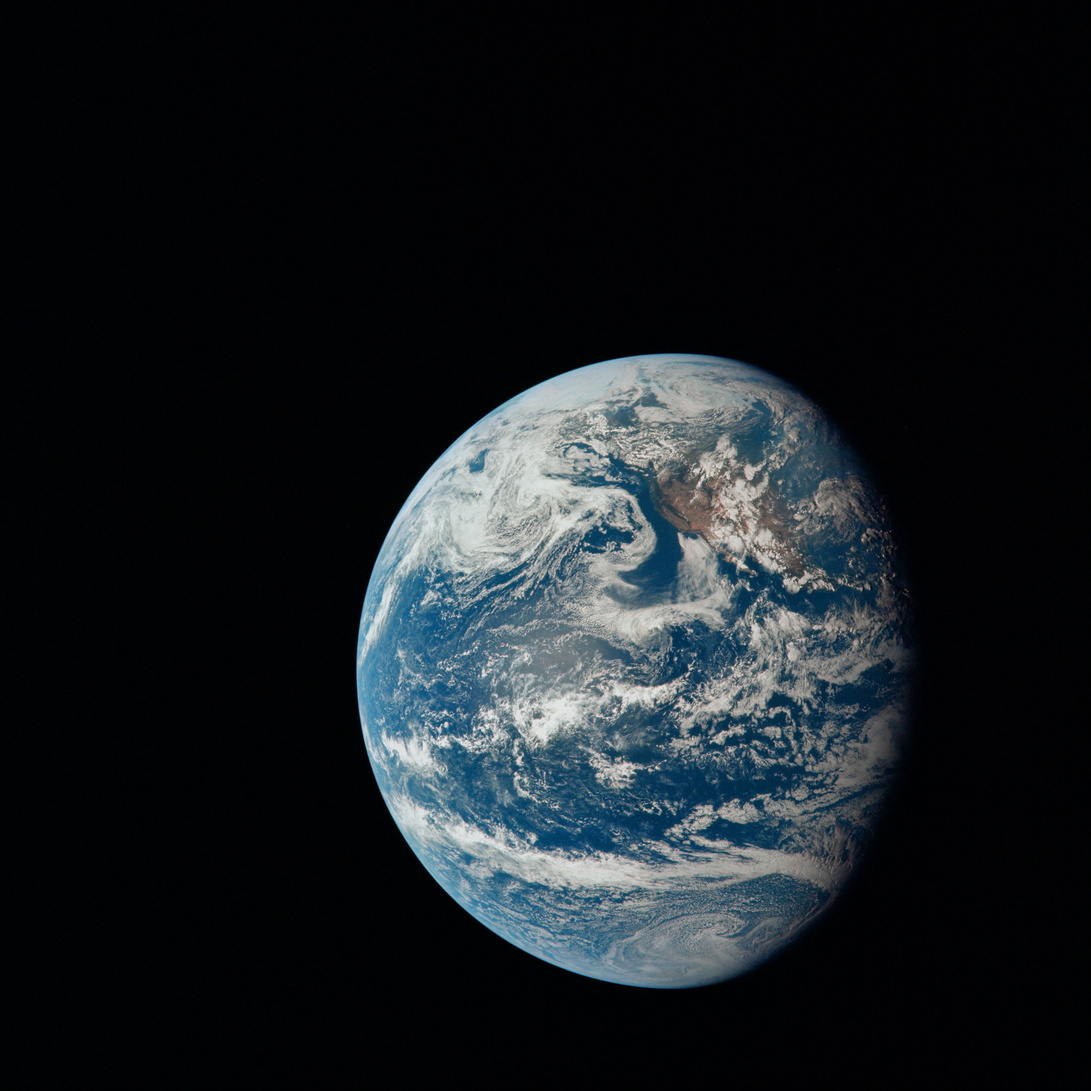
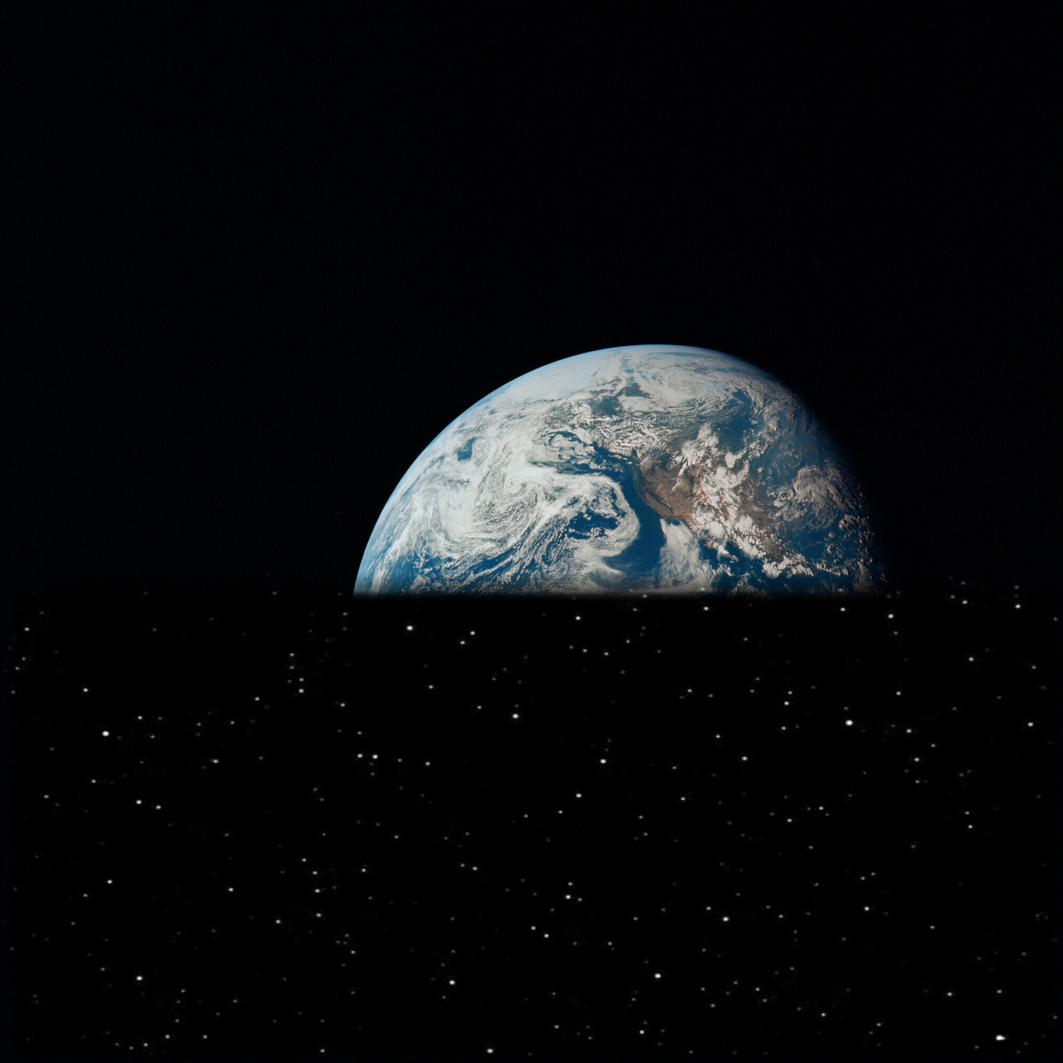
Added new background, hero background editing (flow into body), Adjusted new @media query for mid sized screen sizes to allow top two container to fit, overflow added in new media query, and space fact has been moved to the middle

Changed region(s): [[0.3108, 0.5283, 0.8391, 0.9323]]

diff --git a/assets/css/styles.css b/assets/css/styles.css
@@ -90,11 +90,24 @@ svg {
 /* Body/JumboTron Styling */
 body {
     min-height: 100%;
-    font-size: 20px;
+    font-size: 26px;
+    background: #000 url(../images/stars-image.jpg) center;
 }
 
 .iotd {
     max-width: 100%;
+}
+
+#img-container{
+    display: flex;
+    flex-direction: column;
+    min-height: 100%;
+}
+
+iframe {
+    border: none;
+    flex-grow: 1;
+    min-height: 50vh;
 }
 
 .animate-pop-in {
@@ -104,6 +117,8 @@ body {
 
 .hero {
     background: #000 url(../images/earth-image.jpg) center no-repeat;
+    mask-image: none;
+    -webkit-mask-image: -webkit-linear-gradient(bottom, rgba(0, 0, 0, 0.8), rgba(0, 0, 0, 1));
     background-size: 100%;
     background-position-x: 200px;
     position: relative;
@@ -119,13 +134,12 @@ body {
 
 .hero-body h1, p {
     margin: 20px 0 15px;
-    color: black;
 }
 
 .hero-body p {
     font-size: 21px;
     font-weight: 500;
-    color: white;  
+    color: white;
 }
 
 .logo-image {
@@ -152,6 +166,17 @@ body {
     text-align: center;
 }
 
+h2,
+h3,
+p
+ {
+    color: white;
+}
+
+.fact-container {
+    text-align: center;
+}
+
 .info-area h2{
     text-align: center;
 }
@@ -164,6 +189,7 @@ body {
 .card-wrapping-0 {
     border-radius: 5px;
     border-width: 1px;
+    background-color: rgba(78, 72, 72, 0.1);
     box-shadow: rgba(0, 0, 0, 0.3) 0px 2px 8px 0px;
     color: hsl(200, 5%, 13%);
     margin: 3% 3%;
@@ -179,6 +205,7 @@ body {
     opacity: 0.8;
     border-radius: 5px;
     border-width: 1px;
+    background-color: rgba(78, 72, 72, 0.1);
     box-shadow: rgba(0, 0, 0, 0.3) 0px 2px 8px 0px;
     color: hsl(200, 5%, 13%);
     margin: 3% 3%;
@@ -194,6 +221,23 @@ body {
     opacity: 0.8;
     border-radius: 5px;
     border-width: 1px;
+    background-color: rgba(78, 72, 72, 0.1);
+    box-shadow: rgba(0, 0, 0, 0.3) 0px 2px 8px 0px;
+    color: hsl(200, 5%, 13%);
+    margin: 3% 3%;
+    padding: 4%;
+    -webkit-transition: all 0.5s ease-out;
+    -moz-transition: all 0.5s ease-out;
+    -o-transition: all 0.5s ease-out;
+    -ms-transition: all 0.5s ease-out;
+    transition: all 0.5s ease-out;
+}
+
+.card-wrapping-3 {
+    opacity: 0.8;
+    border-radius: 5px;
+    border-width: 1px;
+    background-color: rgba(78, 72, 72, 0.1);
     box-shadow: rgba(0, 0, 0, 0.3) 0px 2px 8px 0px;
     color: hsl(200, 5%, 13%);
     margin: 3% 3%;
@@ -214,12 +258,16 @@ body {
     display: inline;
 }
 
+.card-body p {
+    color: black;
+}
+
 .card-wrapping-2:hover {
     opacity: 0.97;
     box-shadow: rgba(202, 152, 76, 0.6) 0px 2px 12px 0px;
 }
 
-.card-wrapping:hover, .card-wrapping-0:hover {
+.card-wrapping:hover, .card-wrapping-0:hover, .card-wrapping-3:hover {
     opacity: 0.97;
     box-shadow: rgba(96, 79, 173, 0.6) 0px 2px 12px 0px;
 }
@@ -235,6 +283,8 @@ footer {
 
 .logo-2 {
     max-width: 5em;
+    background-color: white;
+    border-radius: 75%;
 }
 
 .logo-area {
@@ -251,7 +301,7 @@ footer {
 }
 
 .footer a {
-    color: black;
+    color: white;
     position: relative;
     text-decoration: none;
     transition: color .4s ease-out;
@@ -259,7 +309,7 @@ footer {
 
 .footer a::after {
     border-radius: 1em;
-    border-top: 1px solid hsl(200, 5%, 13%);;
+    border-top: 1px solid hsl(0, 0%, 100%);;
     content: "";
     position: absolute;
     right: 100%;
@@ -281,7 +331,7 @@ footer {
 .footer-line::before, .footer-line::after {
     content: '';
     flex: 1;
-    border-bottom: 1px solid #000;
+    border-bottom: 1px solid white;
 }
 
 .footer-line::before {
@@ -298,6 +348,23 @@ footer {
     margin: 5px;
 }
 /* Footer Styling End*/
+
+/* Media Query Adjustments 1900px*/
+@media screen and (max-width: 1900px) {
+    .img-otd {
+        max-height: 42.9vh;
+    }
+
+    .iotd {
+        max-height: 38.9vh;
+        width: 100%;
+    }
+
+    .info-area {
+        overflow: auto;
+        max-height: 42.9vh;
+    }
+}
 
 /* Media Query Adjustments 1200px*/
 @media screen and (max-width: 1200px) {
@@ -337,6 +404,22 @@ footer {
         transform: translateY(5%);
     }
 
+    .fact-container {
+        margin-left: 10%;
+        width: 80%;
+    }
+
+    .img-otd {
+        max-height: none;
+        min-height: none;
+    }
+
+    .iotd {
+        max-height: none;
+        width: 100%;
+        min-height: none;
+    }
+
     .logo-image {
         display: none;
     }
@@ -361,6 +444,10 @@ footer {
 
     .info-container {
         display: inline-block;
+    }
+
+    .info-area p {
+        font-size: 16px;
     }
 
     .atmos-info {

diff --git a/assets/js/script.js b/assets/js/script.js
@@ -1,14 +1,13 @@
 // Global Variables
 var nasaKey = 'QFBaySAYAbefXA8kgBoxfYWOYqWKcnmCMXq58czU'
+
 var imgProgress = document.querySelector('#loadingCircle');
 
 // Parralax Scrolling Animation
 var rellax = new Rellax('.rellax');
 
-// Date format for API
-// Current Date from Moment
-// Temporary > Can be deleted if never used in project
-const now = moment().format('YYYY-MM-DD');
+var today = moment().format('YYYY-MM-DD')
+
 
 // To show a Loading Bar while POTD is being fetched and returned
 document.onreadystatechange = function() {
@@ -20,24 +19,25 @@ document.onreadystatechange = function() {
 // IOTD Section
 $(document).ready(function() {
     // Gets the image of the day and its corresponding information
-    fetch(`https://api.nasa.gov/planetary/apod?api_key=${nasaKey}`)
+    fetch(`https://api.nasa.gov/planetary/apod?date=${today}&api_key=${nasaKey}`)
     .then(function(response) {
     
         if (response.ok) {
             response.json().then(function (data) {
                 
             // Gets the data we need and stores them in variables
+            var mediaType = data.media_type
             var description = data.explanation
             var title = data.title
-            var picOtd = data.hdurl
+            var picOtd = data.url
                 
             // Passes that data to the iotd() function
-            iotd(description, title, picOtd)
+            iotd(mediaType, description, title, picOtd)
             
         });
 
         } else {
-            // If for some reason is not valid an error message is displayed
+            // If for any reason the request is not valid an error message is displayed
             $('#imgOtd').attr('src', './assets/images/alien.png')
             $('#image-description').text("Sorry! It looks like NASA doesn't have an image for today.")
             $('#iotdTitle').text(status.statusText)
@@ -47,17 +47,25 @@ $(document).ready(function() {
         // To notify user of connection issue to Nasa API
         $('#image-description').text("Sorry! It looks like your device is having issues connecting to Nasa's API. Retry your connection or come back later! Thank you.")
         $('#iotdTitle').text('Error: ' + status.statusText);
+
     });
 
-    var iotd = function(description, title, picOtd) {
-        // Puts data from the getIotd() function in its correct places on the page
-        $('#imgOtd').attr('src', picOtd)
+    var iotd = function(mediaType, description, title, picOtd) {
+        // Puts all the iotd data in its correct places on the page
+        
         $('#image-description').text(description)
         $('#iotdTitle').text(title)
         $('#toIotd').attr('href', picOtd)
+
+        if (mediaType === 'video') {
+            $('#img-container').append(`<iframe src='${picOtd}'  style="border: none;"></iframe>`)
+        } else if (mediaType === 'image') {
+            $('#imgOtd').attr('src', picOtd)
+        }
     }
 });
 // End IOTD section
+
 
 // Asteroid Section
 $('#add-asteroid').on('click', function () {
@@ -71,6 +79,7 @@ $('#add-weather').on('click', function() {
     console.log('Weather button clicked');
 });
 
+
 // Mars weather section
 var getMars = function() {
     
@@ -78,4 +87,7 @@ var getMars = function() {
     // Get high, low, and avg temp
     // Get season
     // Get sol and earth date
+
 }
+
+//rover image section

diff --git a/index.html b/index.html
@@ -13,13 +13,13 @@
 <body>
 
     <!-- Hero Area -->
-    <div class="hero rellax" id="#">
+    <div class="hero" id="#">
         <div class="hero-body">
             <div>
                 <img src="./assets/images/Logo-1.png" alt="Website Space-Ship Logo" class="logo-image animate__animated animate__fadeInDownBig"/>
             </div>
             <!-- Space Dash has been manipulated as an SVG to allow Animation-->
-            <svg viewBox="0 0 250 20">
+            <svg viewBox="0 0 250 20" class="rellax">
                 <symbol id="s-text">
                     <text text-anchor="middle" x="56.6%" y="80%" font-size="20px" class="space-text animate-pop-in">Space Dash</text>
                 </symbol>
@@ -56,16 +56,15 @@
                 <h3 id="iotdTitle"></h3>
                 <p id="image-description"></p>
             </div>
-            <!-- Fact Container-->
-            <div class="fact-container">
-                <!-- Divider -->
-                <div class="divider-vert" data-content="AND"></div>
-                <!-- Fact Area-->
-                <div>
-                    <h2>Space Fact!</h2>
-                    <p id="space-facts">Lorem ipsum, dolor sit amet consectetur adipisicing elit. Consequatur deserunt ratione debitis ea repellendus alias error? Totam officia error pariatur cupiditate odio nostrum tempora, animi dolore tempore? Iusto, dicta consectetur.</p>
-                </div>
-            </div>
+        </div>
+    </div>
+
+    <!-- Fact Container-->
+    <div class="fact-container card-wrapping-3 col-md-8">
+        <!-- Fact Area-->
+        <div>
+            <h2>Space Fact!</h2>
+            <p id="space-facts">Lorem ipsum, dolor sit amet consectetur adipisicing elit. Consequatur deserunt ratione debitis ea repellendus alias error? Totam officia error pariatur cupiditate odio nostrum tempora, animi dolore tempore? Iusto, dicta consectetur.</p>
         </div>
     </div>
 
